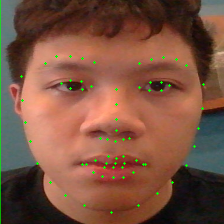
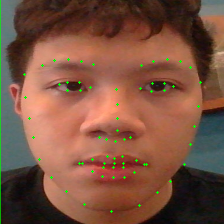
.

diff --git a/notebooks/image_annotation.py b/notebooks/image_annotation.py
@@ -21,7 +21,7 @@ def detect(img_path: str, cfg: DictConfig) -> None:
     device = torch.device('cuda' if torch.cuda.is_available() else 'cpu')
 
     net = hydra.utils.instantiate(cfg.net)
-    model = DLIBLitModule.load_from_checkpoint(checkpoint_path='logs/train/runs/2024-02-22_14-14-53/checkpoints/last.ckpt', net=net)
+    model = DLIBLitModule.load_from_checkpoint(checkpoint_path='logs/train/runs/2024-04-04_13-19-41/checkpoints/last.ckpt', net=net)
     model = model.to(device)
 
     transform = A.Compose([A.Resize(224, 224),
